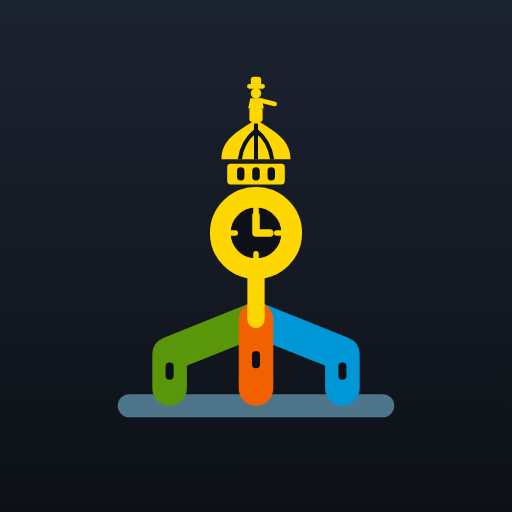
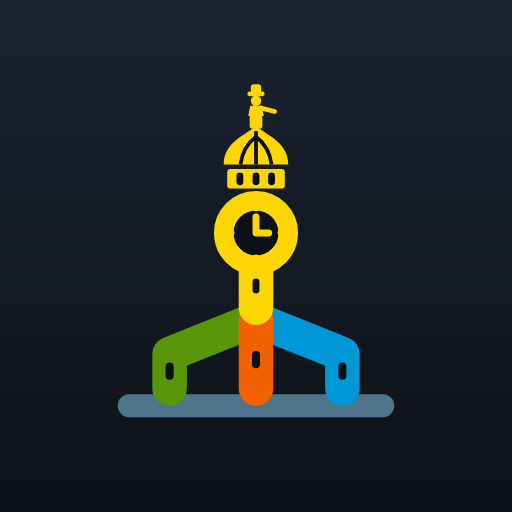
Widen the tower shaft and slim the clock and dome
The narrow yellow shaft looked spindly under the clock and dome. It now
matches the 6-unit width of the building lines, and the clock, drum, and
dome are slightly narrower, so the tower reads as one solid column, as
on City Hall. A window slot in the shaft continues the building's
windows. PNGs regenerated.

Claude-Session: https://claude.ai/code/session_01SDaXcSV7PRVGm2Rk6dKjyn

Changed region(s): [[0.4062, 0.1562, 0.5938, 0.6562]]

diff --git a/scripts/og-template.html b/scripts/og-template.html
@@ -195,32 +195,33 @@
                 <rect x="31.3" y="48.5" width="1.4" height="3" rx=".7" />
                 <rect x="46.3" y="50.5" width="1.4" height="3" rx=".7" />
               </g>
-              <!-- The tower shaft, one narrow line up to the clock -->
-              <path d="M32 43V35" stroke="#FFD700" stroke-width="3" stroke-linecap="round" />
+              <!-- The tower shaft, one yellow line up to the clock -->
+              <path d="M32 41V34.3" stroke="#FFD700" stroke-width="6" stroke-linecap="round" />
+              <rect x="31.4" y="35.9" width="1.2" height="2.6" rx=".6" fill="#0d1117" />
               <!-- Clock face -->
-              <circle cx="32" cy="28" r="6.2" fill="#0d1117" stroke="#FFD700" stroke-width="3.6" />
+              <circle cx="32" cy="28" r="5.6" fill="#0d1117" stroke="#FFD700" stroke-width="3.4" />
               <g stroke="#FFD700" stroke-linecap="round">
-                <path d="M32 23.4v1M36.6 28h-1M32 32.6v-1M27.4 28h1" stroke-width=".95" />
-                <path d="M32 28v-3M32 28h2.4" stroke-width="1.3" />
+                <path d="M32 22.9v.9M37.1 28h-.9M32 33.1v-.9M26.9 28h.9" stroke-width=".9" />
+                <path d="M32 28v-2.8M32 28h2.2" stroke-width="1.2" />
               </g>
               <!-- Drum with arched windows, ribbed dome, lantern -->
-              <rect x="27" y="16" width="10" height="3.6" rx=".6" fill="#FFD700" />
+              <rect x="27" y="16.9" width="10" height="3.4" rx=".6" fill="#FFD700" />
               <g fill="#0d1117">
-                <rect x="28.7" y="16.6" width="1.3" height="2.3" rx=".65" />
-                <rect x="31.35" y="16.6" width="1.3" height="2.3" rx=".65" />
-                <rect x="34" y="16.6" width="1.3" height="2.3" rx=".65" />
+                <rect x="28.6" y="17.5" width="1.2" height="2.2" rx=".6" />
+                <rect x="31.4" y="17.5" width="1.2" height="2.2" rx=".6" />
+                <rect x="34.1" y="17.5" width="1.2" height="2.2" rx=".6" />
               </g>
-              <path d="M26 15.2C26 11.4 29.4 10.2 32 8.2 34.6 10.2 38 11.4 38 15.2Z" fill="#FFD700" />
-              <path d="M32 9v6.2M29.2 15.2c.3-2.3 1.2-3.7 2.8-5M34.8 15.2c-.3-2.3-1.2-3.7-2.8-5" stroke="#0d1117" stroke-width=".7" fill="none" />
-              <rect x="30.85" y="6.2" width="2.3" height="2.5" rx=".5" fill="#FFD700" />
+              <path d="M26.4 16.1C26.4 12.5 29.6 11.2 32 9.5 34.4 11.2 37.6 12.5 37.6 16.1Z" fill="#FFD700" />
+              <path d="M32 10.3V16.1M29.3 16.1c.3-2.2 1.1-3.6 2.69-4.8M34.7 16.1c-.3-2.2-1.1-3.6-2.69-4.8" stroke="#0d1117" stroke-width=".65" fill="none" />
+              <rect x="30.9" y="7.5" width="2.2" height="2.4" rx=".5" fill="#FFD700" />
               <!-- William Penn -->
               <g fill="#FFD700">
-                <rect x="30.45" y="2.15" width="3.1" height=".8" rx=".4" />
-                <rect x="31.1" y=".9" width="1.8" height="1.6" rx=".5" />
-                <circle cx="32" cy="3.75" r=".9" />
-                <path d="M31 4.6h2l.35 1.8h-2.7z" />
+                <rect x="30.5" y="3.45" width="3" height=".8" rx=".4" />
+                <rect x="31.1" y="2.2" width="1.8" height="1.6" rx=".5" />
+                <circle cx="32" cy="5.05" r=".9" />
+                <path d="M31 5.9h2l.35 1.8h-2.7z" />
               </g>
-              <path d="M32.85 5l2.4.6" stroke="#FFD700" stroke-width=".8" stroke-linecap="round" />
+              <path d="M32.85 6.3l2.4.6" stroke="#FFD700" stroke-width=".8" stroke-linecap="round" />
             </svg>
             <h1 class="title">SEPTA<br /><span class="product">Transit Alerts</span></h1>
           </div>

diff --git a/src/components/BrandMark.jsx b/src/components/BrandMark.jsx
@@ -31,37 +31,41 @@ export default function BrandMark({ className = 'h-8 w-8' }) {
         <rect x="31.3" y="48.5" width="1.4" height="3" rx=".7" />
         <rect x="46.3" y="50.5" width="1.4" height="3" rx=".7" />
       </g>
-      {/* The tower shaft, one narrow line up to the clock */}
-      <path d="M32 43V35" stroke="#FFD700" strokeWidth="3" strokeLinecap="round" />
+      {/* The tower shaft, one yellow line up to the clock */}
+      <path d="M32 41V34.3" stroke="#FFD700" strokeWidth="6" strokeLinecap="round" />
+      <rect x="31.4" y="35.9" width="1.2" height="2.6" rx=".6" fill="#0d1117" />
       {/* Clock face */}
-      <circle cx="32" cy="28" r="6.2" fill="#0d1117" stroke="#FFD700" strokeWidth="3.6" />
+      <circle cx="32" cy="28" r="5.6" fill="#0d1117" stroke="#FFD700" strokeWidth="3.4" />
       <g stroke="#FFD700" strokeLinecap="round">
-        <path d="M32 23.4v1M36.6 28h-1M32 32.6v-1M27.4 28h1" strokeWidth=".95" />
-        <path d="M32 28v-3M32 28h2.4" strokeWidth="1.3" />
+        <path d="M32 22.9v.9M37.1 28h-.9M32 33.1v-.9M26.9 28h.9" strokeWidth=".9" />
+        <path d="M32 28v-2.8M32 28h2.2" strokeWidth="1.2" />
       </g>
       {/* Drum with arched windows, ribbed dome, lantern */}
-      <rect x="27" y="16" width="10" height="3.6" rx=".6" fill="#FFD700" />
+      <rect x="27" y="16.9" width="10" height="3.4" rx=".6" fill="#FFD700" />
       <g fill="#0d1117">
-        <rect x="28.7" y="16.6" width="1.3" height="2.3" rx=".65" />
-        <rect x="31.35" y="16.6" width="1.3" height="2.3" rx=".65" />
-        <rect x="34" y="16.6" width="1.3" height="2.3" rx=".65" />
+        <rect x="28.6" y="17.5" width="1.2" height="2.2" rx=".6" />
+        <rect x="31.4" y="17.5" width="1.2" height="2.2" rx=".6" />
+        <rect x="34.1" y="17.5" width="1.2" height="2.2" rx=".6" />
       </g>
-      <path d="M26 15.2C26 11.4 29.4 10.2 32 8.2 34.6 10.2 38 11.4 38 15.2Z" fill="#FFD700" />
       <path
-        d="M32 9v6.2M29.2 15.2c.3-2.3 1.2-3.7 2.8-5M34.8 15.2c-.3-2.3-1.2-3.7-2.8-5"
+        d="M26.4 16.1C26.4 12.5 29.6 11.2 32 9.5 34.4 11.2 37.6 12.5 37.6 16.1Z"
+        fill="#FFD700"
+      />
+      <path
+        d="M32 10.3V16.1M29.3 16.1c.3-2.2 1.1-3.6 2.69-4.8M34.7 16.1c-.3-2.2-1.1-3.6-2.69-4.8"
         stroke="#0d1117"
-        strokeWidth=".7"
+        strokeWidth=".65"
         fill="none"
       />
-      <rect x="30.85" y="6.2" width="2.3" height="2.5" rx=".5" fill="#FFD700" />
+      <rect x="30.9" y="7.5" width="2.2" height="2.4" rx=".5" fill="#FFD700" />
       {/* William Penn */}
       <g fill="#FFD700">
-        <rect x="30.45" y="2.15" width="3.1" height=".8" rx=".4" />
-        <rect x="31.1" y=".9" width="1.8" height="1.6" rx=".5" />
-        <circle cx="32" cy="3.75" r=".9" />
-        <path d="M31 4.6h2l.35 1.8h-2.7z" />
+        <rect x="30.5" y="3.45" width="3" height=".8" rx=".4" />
+        <rect x="31.1" y="2.2" width="1.8" height="1.6" rx=".5" />
+        <circle cx="32" cy="5.05" r=".9" />
+        <path d="M31 5.9h2l.35 1.8h-2.7z" />
       </g>
-      <path d="M32.85 5l2.4.6" stroke="#FFD700" strokeWidth=".8" strokeLinecap="round" />
+      <path d="M32.85 6.3l2.4.6" stroke="#FFD700" strokeWidth=".8" strokeLinecap="round" />
     </svg>
   );
 }
